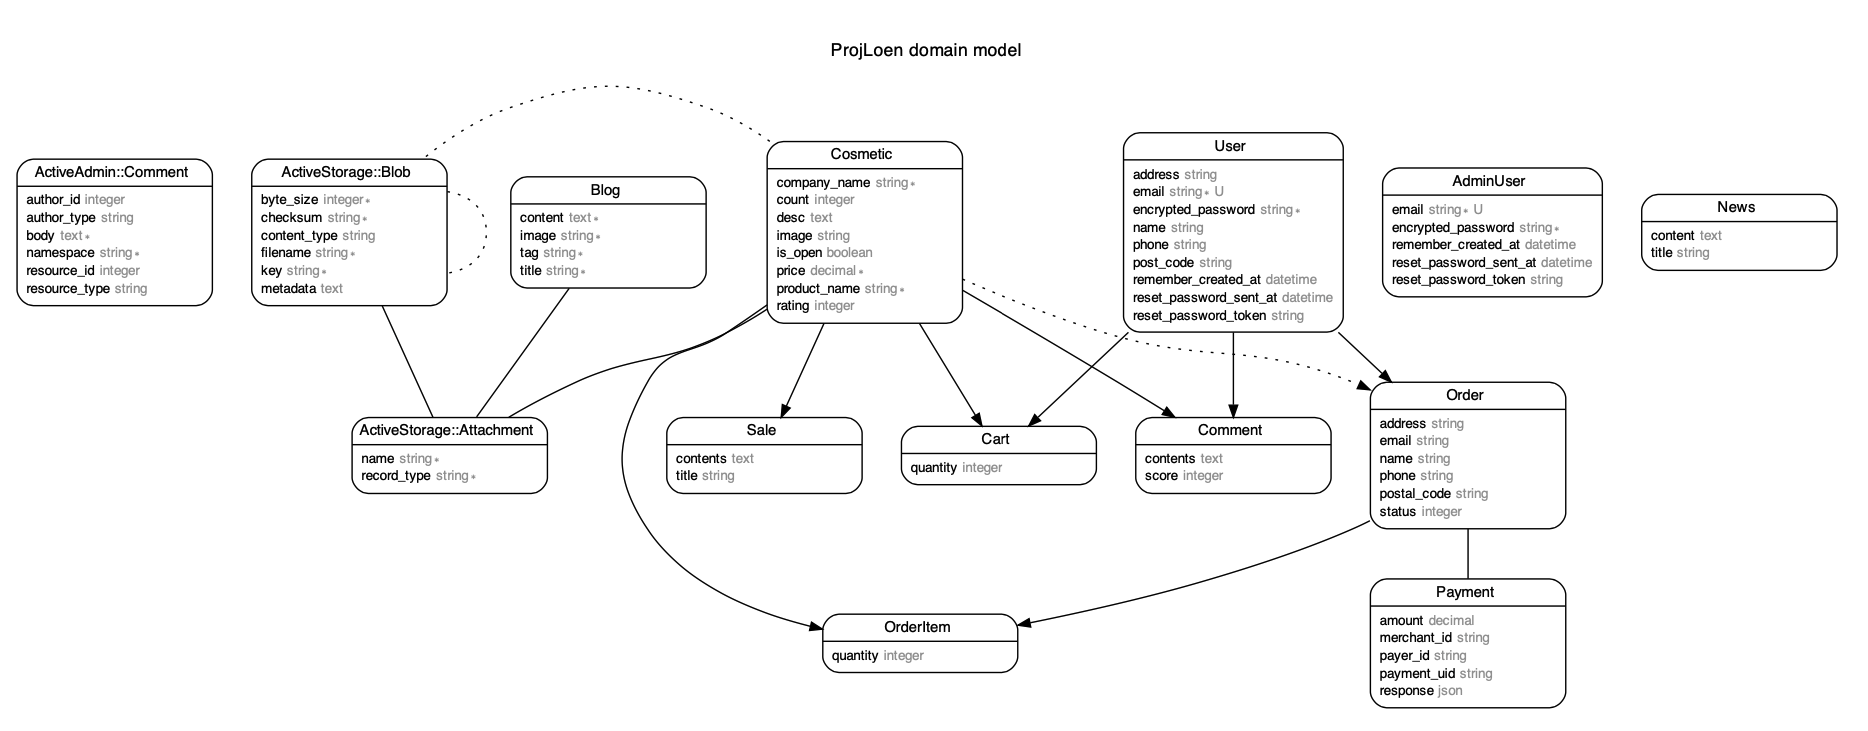
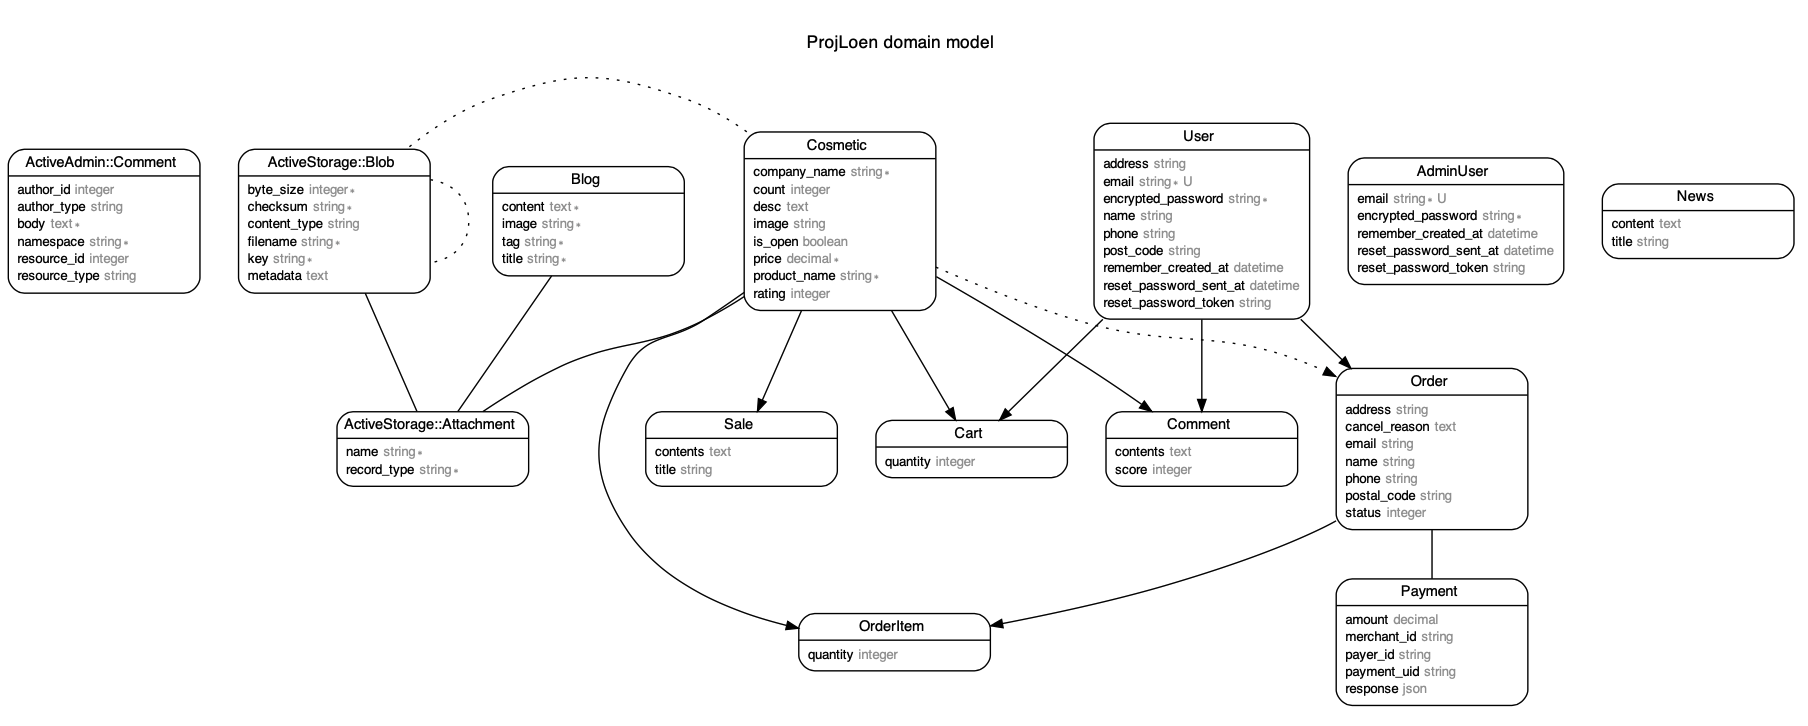
#Update - erd chagned

diff --git a/db/migrate/20201219172016_add_cancel_reason_to_order.rb b/db/migrate/20201219172016_add_cancel_reason_to_order.rb
@@ -1,0 +1,5 @@
+class AddCancelReasonToOrder < ActiveRecord::Migration[5.2]
+  def change
+    add_column :orders, :cancel_reason, :text
+  end
+end
